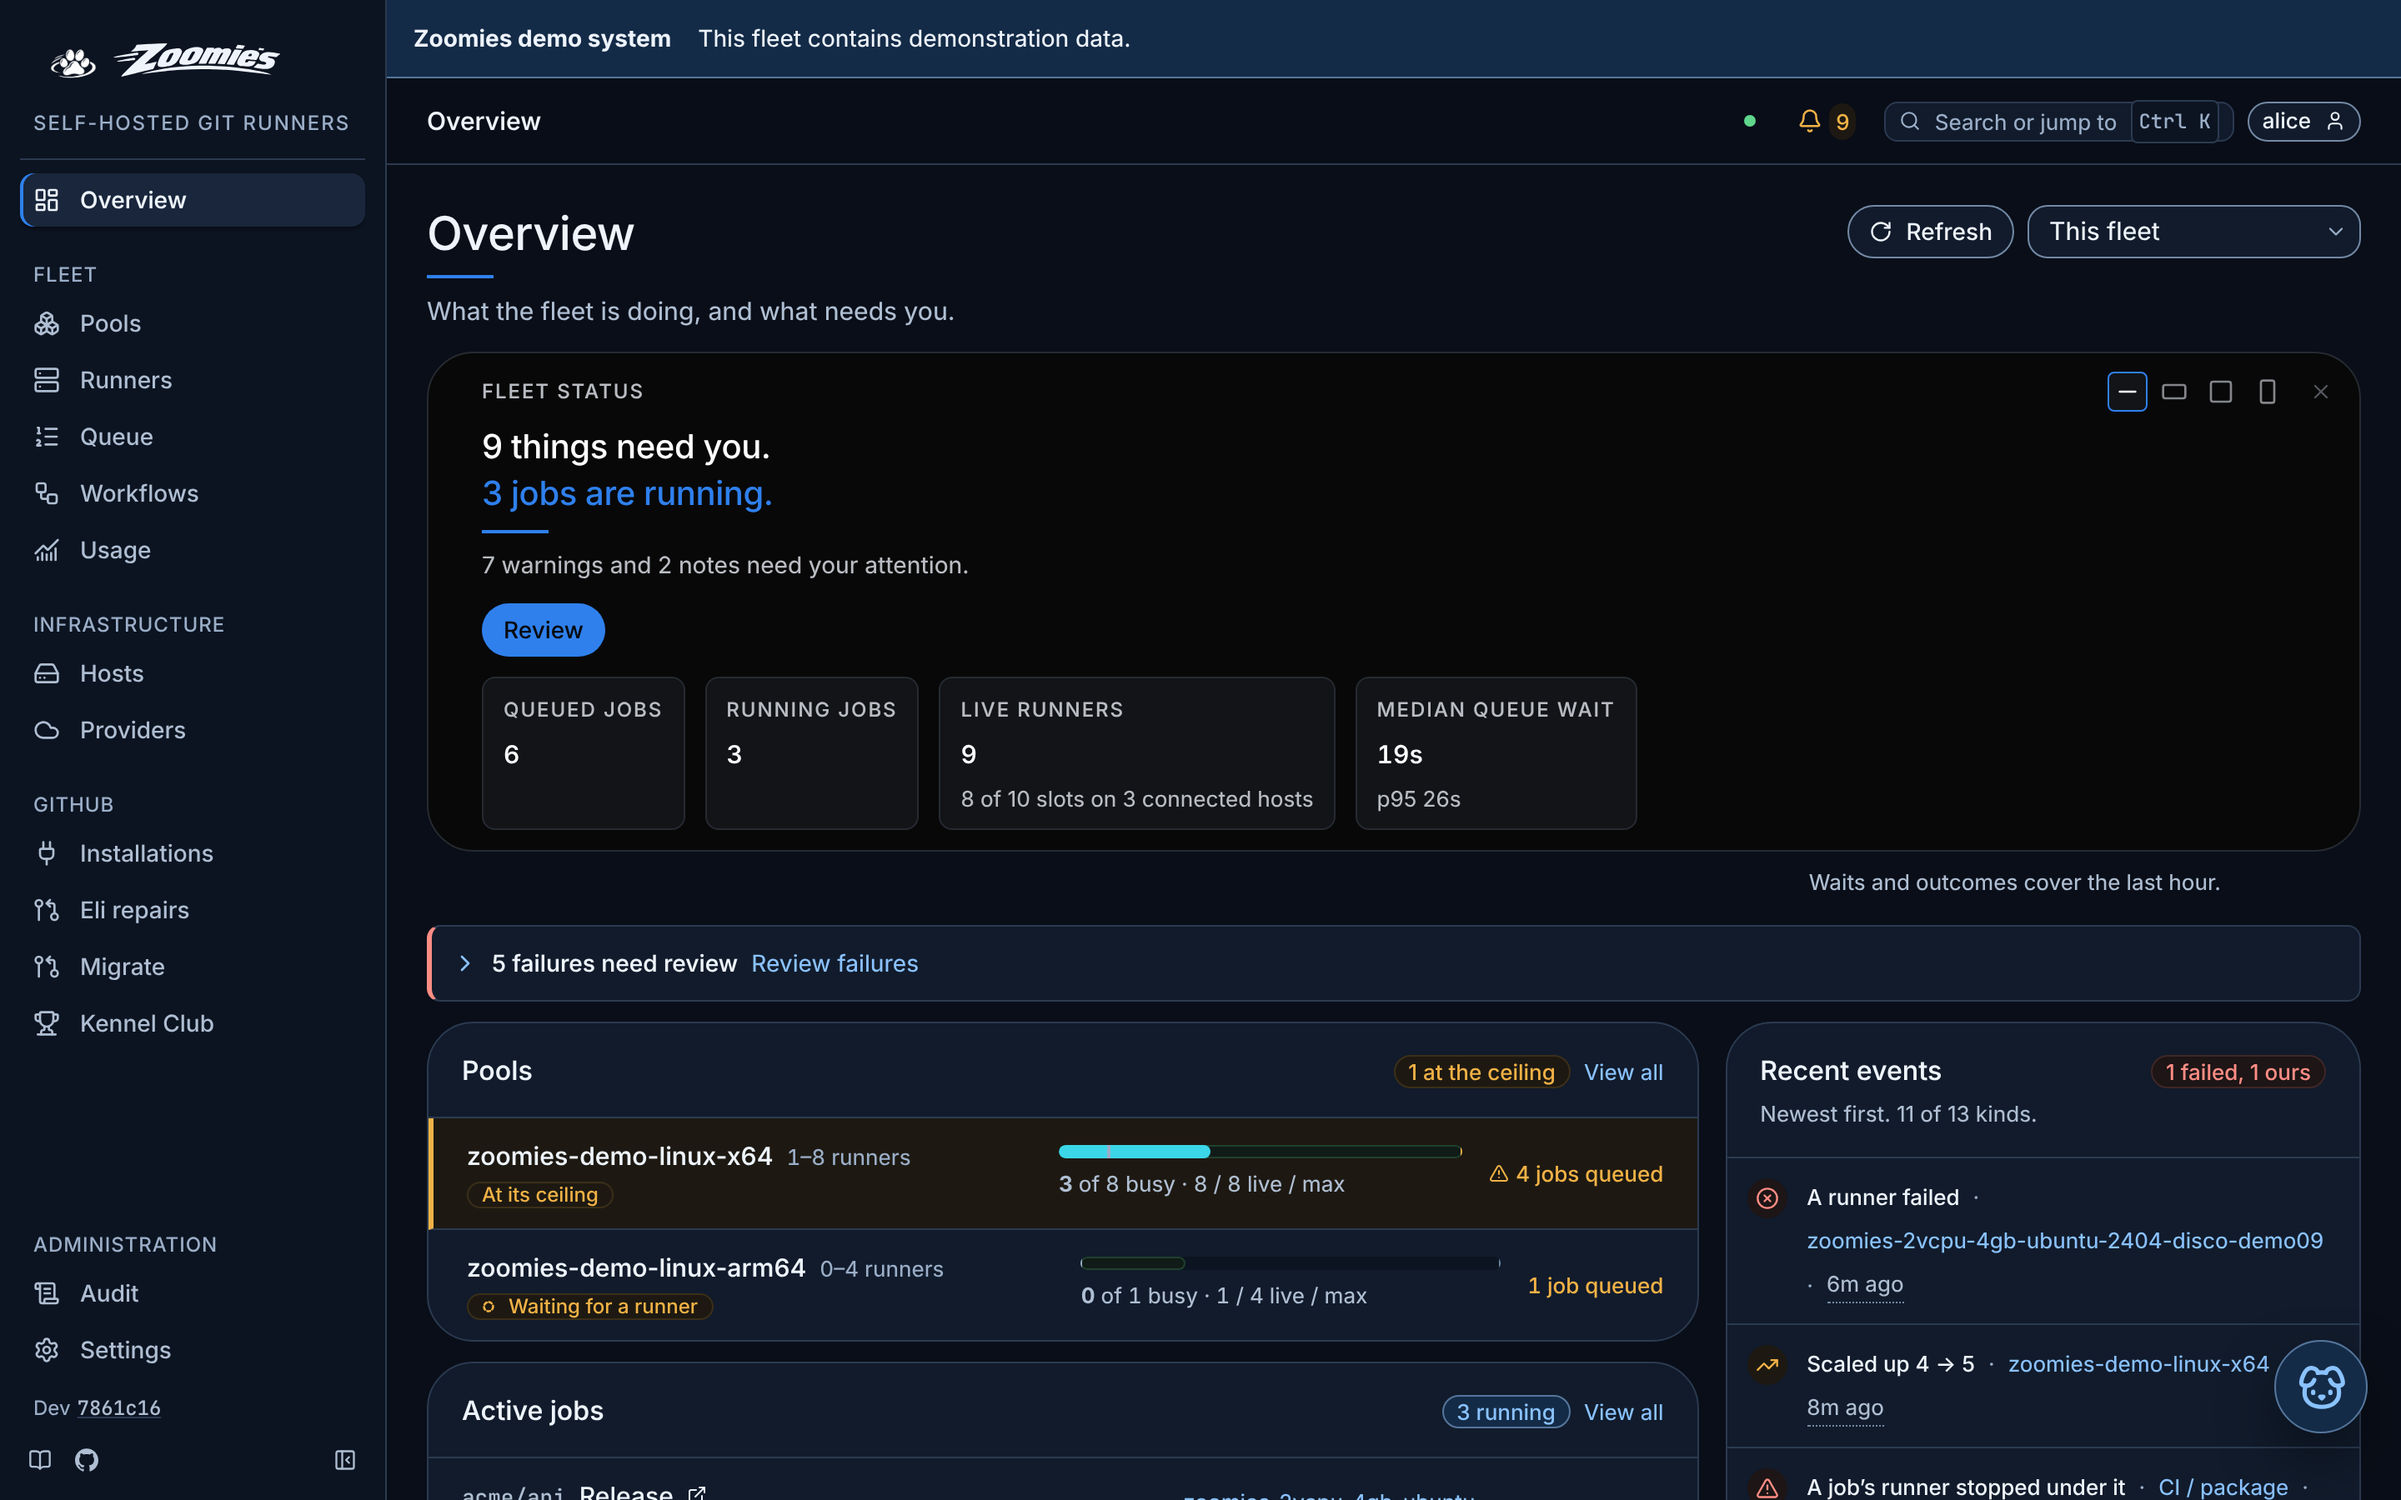
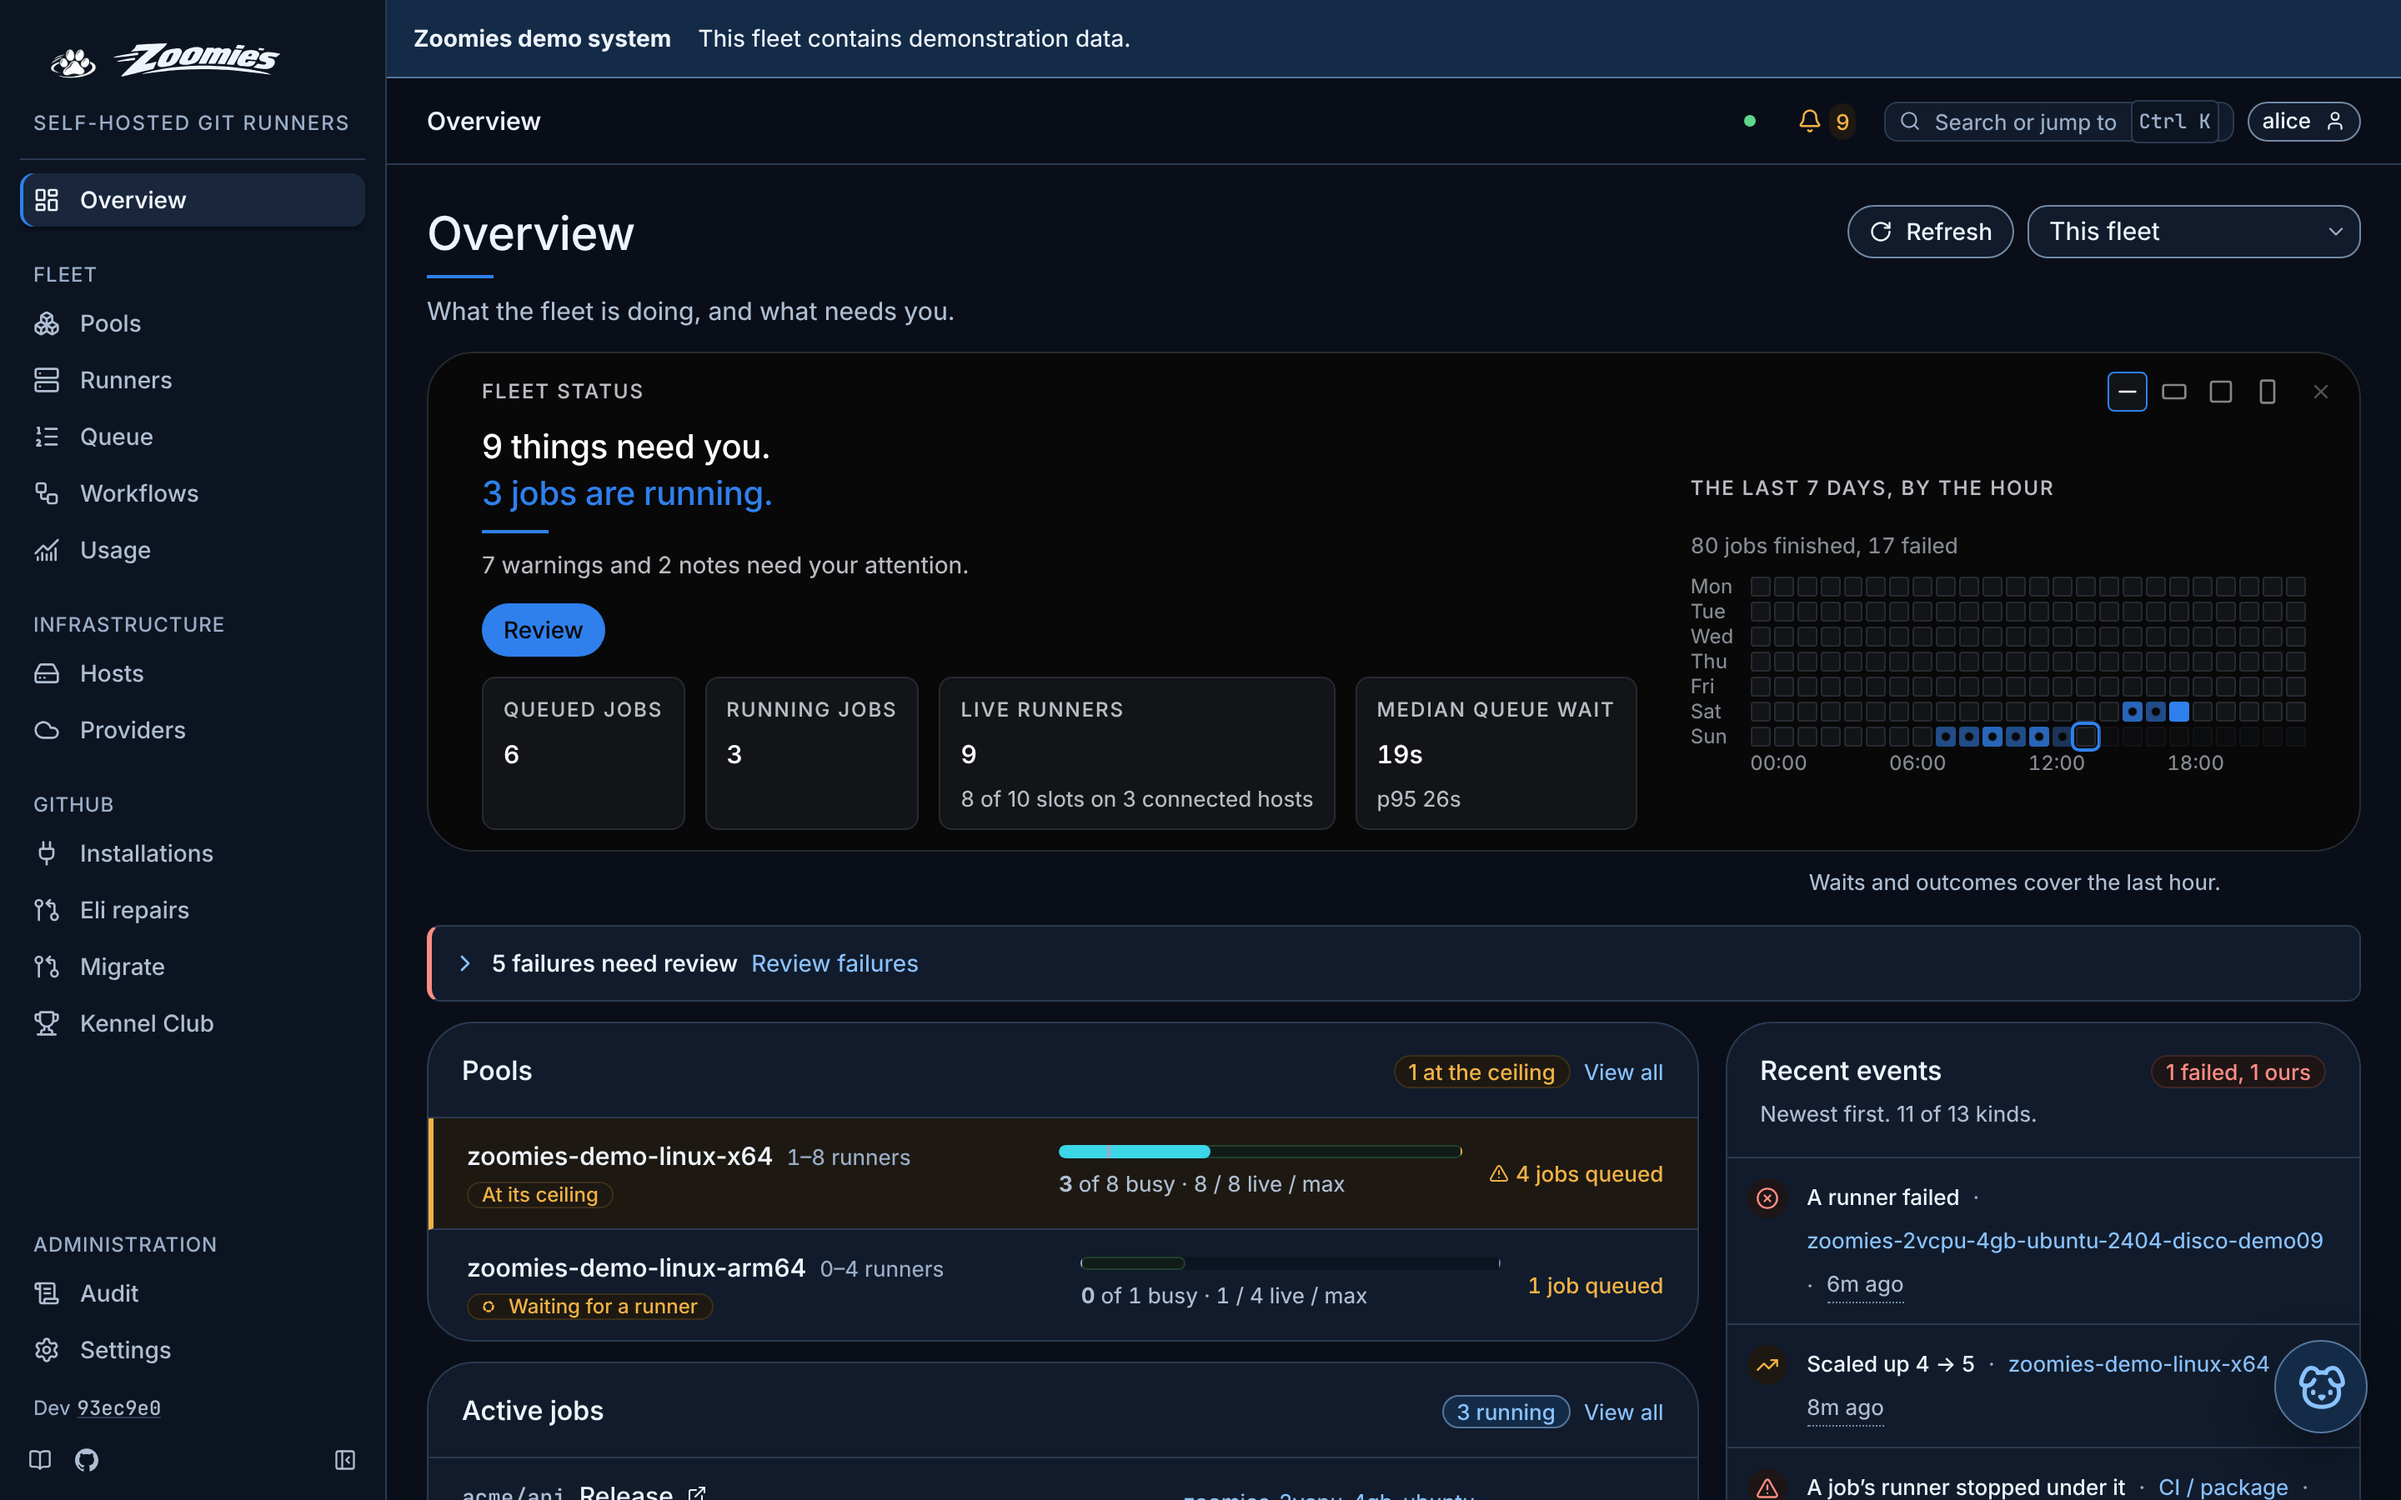
Give the band's picture only the width the words leave, and recapture the pages it changed
At the documentation's 1440px the punch card took its full share of the
band and pushed the Overview's fourth figure onto a second row. The
picture now starts from nothing and fills what the sentence and the
figures leave, down to a floor at which a week of hours is still
readable; past that floor the words give way instead, which on Runners
is one tile of seven wrapping at that width.

The Overview, Runners and Appearance screenshots are retaken in both
looks, with make screenshots narrowed to those names; the pages whose
band or settings this change does not touch keep their captures.

Claude-Session: https://claude.ai/code/session_011MNNzoF5Hc3mp1eaR297Cg

Changed region(s): [[0.6875, 0.3111, 0.9688, 0.5289], [0.0312, 0.9333, 0.0625, 0.9644]]

diff --git a/web/src/lib/public/BrandStage.svelte b/web/src/lib/public/BrandStage.svelte
@@ -219,12 +219,16 @@
     order: 1;
     flex: 0 1 auto;
   }
+  /* The picture takes what the words leave, so the figures keep their one row
+     before it grows: its basis is nothing and it fills from there, down to a
+     floor at which a week of hours is still readable. Past that floor the
+     words give way instead, and a strip of figures wraps. */
   .wide .aside {
     order: 2;
     display: flex;
     justify-content: flex-end;
-    flex: 1 1 auto;
-    min-width: 0;
+    flex: 1 1 0;
+    min-width: 22rem;
     max-width: 46%;
     /* A band's size controls sit in the stage's top corner. A picture taller
        than the words sets the band's height and starts at the padding, where
